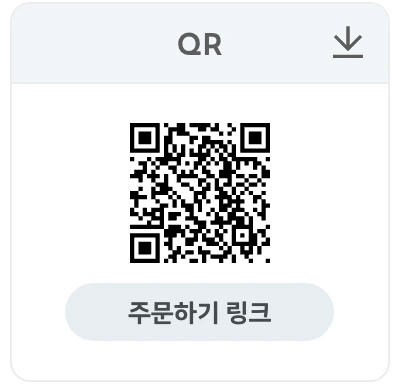
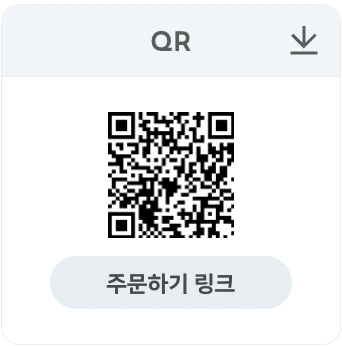
refactor: Update styles for feature previews and images

diff --git a/src/components/user/home/features/FeaturePreview.tsx b/src/components/user/home/features/FeaturePreview.tsx
@@ -14,9 +14,6 @@ const PreviewContainer = styled.div`
   width: 100%;
   height: 240px;
   margin-top: 20px;
-  border-radius: 16px;
-  overflow: hidden;
-  background: #f8f9fa;
   ${colFlex({ justify: 'center', align: 'center' })};
 
   ${mobileMediaQuery} {
@@ -28,18 +25,17 @@ const SinglePreviewImage = styled.img`
   width: 100%;
   height: 100%;
   object-fit: contain;
+  border-radius: 8px;
+  box-shadow: 0 4px 16px rgba(0, 0, 0, 0.08);
 `;
 
 const QrFlow = styled.div`
   width: 100%;
   height: 100%;
-  padding: 16px;
-  box-sizing: border-box;
   gap: 24px;
   ${rowFlex({ justify: 'center', align: 'center' })};
 
   ${mobileMediaQuery} {
-    padding: 12px;
     gap: 16px;
   }
 `;
@@ -48,12 +44,16 @@ const PhoneFlowImage = styled.img`
   height: 100%;
   width: auto;
   object-fit: contain;
+  border-radius: 8px;
+  box-shadow: 0 4px 16px rgba(0, 0, 0, 0.08);
 `;
 
 const QrFlowImage = styled.img`
   height: 65%;
   width: auto;
   object-fit: contain;
+  border-radius: 8px;
+  box-shadow: 0 4px 16px rgba(0, 0, 0, 0.08);
 `;
 
 const ArrowIcon = styled.svg`

diff --git a/src/components/user/info/FeatureVisualContent.tsx b/src/components/user/info/FeatureVisualContent.tsx
@@ -13,18 +13,17 @@ const SinglePreviewImage = styled.img`
   width: 100%;
   height: 100%;
   object-fit: contain;
+  border-radius: 8px;
+  box-shadow: 0 4px 16px rgba(0, 0, 0, 0.08);
 `;
 
 const QrFlow = styled.div`
   width: 100%;
   height: 100%;
-  padding: 12px;
-  box-sizing: border-box;
   gap: 16px;
   ${rowFlex({ justify: 'center', align: 'center' })};
 
   ${mobileMediaQuery} {
-    padding: 10px;
     gap: 12px;
   }
 `;
@@ -33,12 +32,16 @@ const PhoneFlowImage = styled.img`
   height: 100%;
   width: auto;
   object-fit: contain;
+  border-radius: 8px;
+  box-shadow: 0 4px 16px rgba(0, 0, 0, 0.08);
 `;
 
 const QrFlowImage = styled.img`
   height: 65%;
   width: auto;
   object-fit: contain;
+  border-radius: 8px;
+  box-shadow: 0 4px 16px rgba(0, 0, 0, 0.08);
 `;
 
 const ArrowIcon = styled.svg`

diff --git a/src/components/user/info/InfoFeaturesSection.tsx b/src/components/user/info/InfoFeaturesSection.tsx
@@ -88,10 +88,7 @@ const FeatureDescription = styled.p`
 const FeatureVisual = styled.div`
   width: 320px;
   height: 200px;
-  border-radius: 20px;
-  background: #f8f9fa;
   flex-shrink: 0;
-  overflow: hidden;
   ${colFlex({ justify: 'center', align: 'center' })};
 
   ${mobileMediaQuery} {

diff --git a/src/styles/orderCardStyles.ts b/src/styles/orderCardStyles.ts
@@ -10,7 +10,7 @@ export const CardContainer = styled.div<{ height: number }>`
     align: 'start',
   })}
   background-color: ${Color.WHITE};
-  width: 150px;
+  min-width: 150px;
   height: ${(props) => props.height}px;
   border-radius: 16px;
   border: 1px solid #e8eef2;
